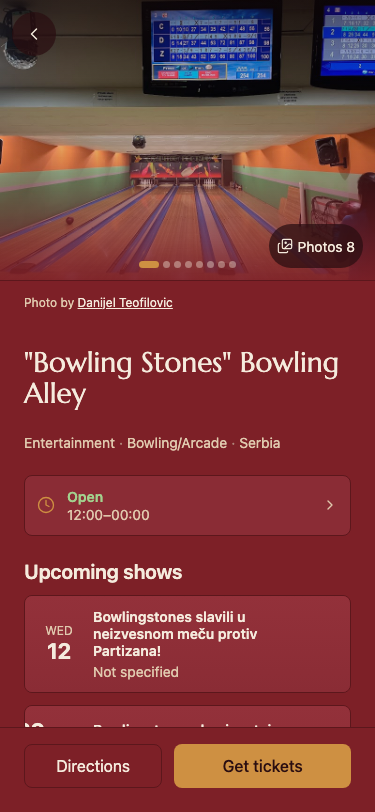
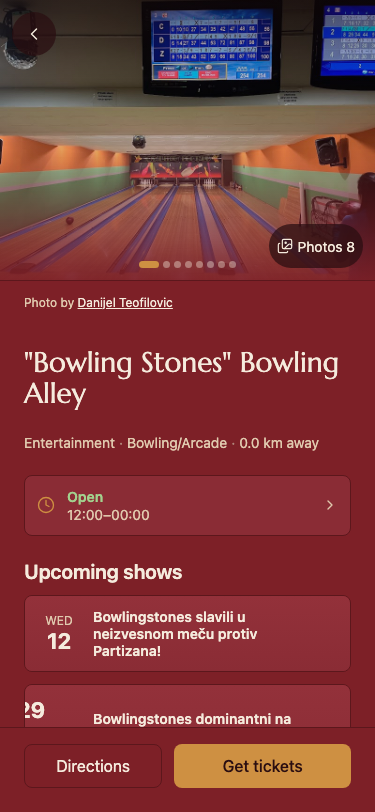
fix(app): T5 review round 2 — meta-line fold priority, dead branch, upcoming-show hedge
- MetaLine: when Entertainment's neighborhood AND the stat-grid's
  single-survivor fold both need a slot alongside category+subtype+
  distance/country, the fold now wins (distance/country yields) instead
  of the fold silently vanishing — the fold is the value's only home
  once FactStrip nulls out below 2 chips.
- Deleted the footer GoogleAttributionPlate branch: provably unreachable
  (its own gate always calls it with no googleMapsUri, which renders null).
- dateBlockRow's time_or_price now runs through classifyField so a leaked
  "Not specified" hedge on a legacy show row omits instead of rendering.
- Corrected two false claims in engineering-notes.md's round-1 entry and
  named the Kids PROMOTE_ABOVE_STAT_GRID gap for real in the code comment.

diff --git a/app/src/features/activity-list/ActivityDetailScreen.tsx b/app/src/features/activity-list/ActivityDetailScreen.tsx
@@ -252,6 +252,19 @@ export function ActivityDetailScreen({
   // (e.g. "Fast" for Wifi in the culture/shopping screens); revisit with a
   // `label` fold for a field where the bare value reads as context-free.
   const foldedFactChip = classifiedFactChips.length === 1 ? classifiedFactChips[0] : undefined;
+  // T5 round-3 fix: category + subtype (2, always-lead) + `metaText`
+  // (distance/country, 1) + Entertainment's `metaExtras` (neighborhood, 0-1)
+  // + a fold (0-1) can total 5 candidates for MetaLine's hard 4-item cap.
+  // Round 2 fixed the no-fold case (neighborhood always wins its slot) but
+  // left the fold-plus-neighborhood collision truncating the fold silently
+  // — the fold's whole purpose is to keep a lone surviving stat visible
+  // (FactStrip nulls out below 2 chips, so the meta line is that value's
+  // only home), so it and neighborhood both need their slot when both
+  // exist; `metaText` is the one that yields. This never fires outside
+  // Entertainment (`metaExtras` is `[]` for every other category) and never
+  // fires when at most one of {neighborhood, fold} is present (metaText
+  // still gets its slot then, same as today).
+  const metaLineOverflow = metaExtras.length + (foldedFactChip ? 1 : 0) >= 2;
   const unique = uniqueSection(activity);
   const goodToKnow = goodToKnowSection(activity);
   const isDirectionsPrimary = primaryCTAIsDirections(activity.category);
@@ -296,12 +309,14 @@ export function ActivityDetailScreen({
   const showMetaRow = !tripadvisor || Boolean(status && !todayRow);
   // T5 round-2 fix: whether the Places-live reviews card below renders at
   // all this pass (vs. its loading skeleton) — same condition as the JSX
-  // branch just below. Reused to gate the footer `GoogleAttributionPlate`
-  // so its "View on Google Maps" link doesn't duplicate the one the
-  // reviews card's own `detail`-variant attribution plate already renders
-  // whenever `google_maps_uri` is present (both plates read the same
-  // field). The footer plate still covers the loading-skeleton gap, where
-  // the card shows no maps link yet.
+  // branch just below. T5 round-2 also gated a footer `GoogleAttributionPlate`
+  // on this (to avoid a duplicate "View on Google Maps" link once the
+  // reviews card's own `detail`-variant plate renders it); round-3 review
+  // found that gated branch was provably unreachable (its two preconditions
+  // — pending and no `google_maps_uri` — mean the footer plate is always
+  // called with no uri, which renders null on its own) and deleted it
+  // rather than keep dead code around. This flag's sole remaining consumer
+  // is the reviews-card skeleton branch below.
   const googleReviewsCardShown =
     isPlacesLive && !(detailsPending && (activity.google_reviews ?? []).length === 0 && !activity.google_maps_uri);
 
@@ -510,8 +525,16 @@ export function ActivityDetailScreen({
               // ahead of distance/country — all app-computed/taxonomy data,
               // never run through `classifyField` (see MetaLine's
               // `rawItems`). Absent entirely for a Tripadvisor row (its
-              // eyebrow above the title already carries category).
-              rawItems={!tripadvisor ? [...metaLineLeadItems(activity), metaText] : undefined}
+              // eyebrow above the title already carries category). T5
+              // round-3 fix: `metaText` drops out of the lead items (rather
+              // than the fold or neighborhood silently losing theirs — see
+              // `metaLineOverflow`) on the one Entertainment collision where
+              // all 5 candidates compete for 4 slots.
+              rawItems={
+                !tripadvisor
+                  ? [...metaLineLeadItems(activity), metaLineOverflow ? undefined : metaText]
+                  : undefined
+              }
               items={[...metaExtras, foldedFactChip?.value]}
               chip={status && !todayRow ? { kind: 'status', text: status.text, isOpen: status.isOpen } : undefined}
             />
@@ -672,17 +695,6 @@ export function ActivityDetailScreen({
             </View>
           )}
 
-          {/* T6: the Places-case analogue of the footer CTA above
-              (design-spec.md: "a single link that either exists after the
-              merge or doesn't"); renders null on its own with no maps link.
-              T5 round-2 fix: shown only while the reviews card above is
-              still skeletoned — once it renders, its own `detail`-variant
-              attribution plate already carries this exact maps link (both
-              plates read the same `google_maps_uri`), so showing this
-              footer copy too duplicated it. */}
-          {isPlacesLive && !googleReviewsCardShown && (
-            <GoogleAttributionPlate variant="footer" googleMapsUri={activity.google_maps_uri} />
-          )}
         </View>
       </ScrollView>
 

diff --git a/app/src/features/activity-list/activityDetailConfig.test.ts b/app/src/features/activity-list/activityDetailConfig.test.ts
@@ -13,6 +13,7 @@ import {
   tripadvisorAttribution,
   tripadvisorEyebrow,
   tripadvisorReviews,
+  uniqueSection,
   weekView,
 } from './activityDetailConfig';
 
@@ -743,5 +744,44 @@ describe('priceContextLine', () => {
   it('is undefined for a category with no price_from field at all (e.g. nightlife)', () => {
     const activity = baseActivity({ category: 'nightlife' });
     expect(priceContextLine(activity)).toBeUndefined();
+  });
+});
+
+// T5 round-3 fix: `time_or_price` is LLM-generated (same denylist/prompt
+// surface as every other free-text field), so a leaked hedge on a legacy
+// row must omit per the spec's "List rows" trailing-omit rule, not render
+// verbatim.
+describe('uniqueSection — entertainment upcoming shows (dateblock)', () => {
+  it('carries a valid time_or_price through as the row subline', () => {
+    const activity = baseActivity({
+      category: 'entertainment',
+      upcoming_shows: [{ date: '2024-06-01', title: 'Live jazz night', time_or_price: '€15' }],
+    });
+    const section = uniqueSection(activity);
+    expect(section?.shape).toBe('schedule');
+    if (section?.shape !== 'schedule') throw new Error('expected schedule shape');
+    expect(section.rows[0]).toMatchObject({ title: 'Live jazz night', subline: '€15' });
+  });
+
+  it('omits the subline when time_or_price fails its scalar shape (the production-bug hedge)', () => {
+    const activity = baseActivity({
+      category: 'entertainment',
+      upcoming_shows: [
+        { date: '2024-06-01', title: 'Live jazz night', time_or_price: 'Not specified' },
+      ],
+    });
+    const section = uniqueSection(activity);
+    if (section?.shape !== 'schedule') throw new Error('expected schedule shape');
+    expect(section.rows[0]).toMatchObject({ title: 'Live jazz night', subline: '' });
+  });
+
+  it('omits the subline when time_or_price is absent', () => {
+    const activity = baseActivity({
+      category: 'entertainment',
+      upcoming_shows: [{ date: '2024-06-01', title: 'Live jazz night' }],
+    });
+    const section = uniqueSection(activity);
+    if (section?.shape !== 'schedule') throw new Error('expected schedule shape');
+    expect(section.rows[0]).toMatchObject({ title: 'Live jazz night', subline: '' });
   });
 });

diff --git a/app/src/features/activity-list/activityDetailConfig.ts b/app/src/features/activity-list/activityDetailConfig.ts
@@ -178,6 +178,13 @@ const CANONICAL_BODY_ORDER: BodySection[] = ['factstrip', 'description', 'unique
 // arrive and now does), and Shopping's old array had 'unique' before
 // 'factstrip' (now 'factstrip' comes first, per the fixed canonical order).
 // See engineering-notes.md's T5 entry for the full disclosure.
+//
+// Kids has no entry here even though the spec's canonical composition names
+// "Promote: description" for it — a deliberate no-op today, not a miss:
+// `factStripFields` returns `[]` unconditionally for kids, so description
+// already leads the canonical order with nothing above it to promote past.
+// T8 (Kids) should add `kids: 'description'` once that stat-grid gap closes,
+// rather than reading this table's silence as "already correct."
 // Not exported — `bodySectionOrder` below is the only thing any other
 // module needs; T6-T10 edit this table in place.
 type PromotableSection = 'description' | 'difficulty' | 'unique';
@@ -736,7 +743,12 @@ function dateBlockRow(show: {
       // ponytail: Intl unavailable — falls back to the raw date string above.
     }
   }
-  return { day, date, title: show.title, subline: show.time_or_price ?? '' };
+  // T5 round-3 fix: `time_or_price` is LLM-generated (same field the
+  // production-bug report's "Not specified" hedges leaked from on legacy
+  // rows — T1 only guards new writes) — run it through `classifyField` like
+  // any other generated trailing value so a leaked hedge omits per the
+  // spec's "List rows" trailing-omit rule instead of rendering verbatim.
+  return { day, date, title: show.title, subline: classifyField('scalar', show.time_or_price) ?? '' };
 }
 
 // Whole-section omission lives here too: every branch returns `undefined`

diff --git a/app/src/features/activity-list/ActivityDetailScreen.test.tsx b/app/src/features/activity-list/ActivityDetailScreen.test.tsx
@@ -683,6 +683,38 @@ describe('ActivityDetailScreen', () => {
       expect(screen.getByText('Dorćol')).toBeTruthy();
     });
 
+    // T5 round-3 fix: probe-verified regression — category + subtype (2) +
+    // distance/country (1) already fill 3 of MetaLine's 4 slots; when the
+    // row also carries a neighborhood (metaExtras) *and* a single surviving
+    // stat (the fold), that's 5 candidates for 4 slots and round 2's fix
+    // only closed the no-fold case. The fold is the value's only home
+    // (FactStrip nulls out below 2 chips) so it must survive alongside
+    // neighborhood — distance/country is what yields.
+    it('keeps both the neighborhood and a folded lone stat when they collide with category+subtype+distance', () => {
+      const entertainment: Activity = {
+        ...activity,
+        category: 'entertainment',
+        subcategory: 'cinema',
+        details: {
+          category: 'entertainment',
+          neighborhood: 'Dorćol',
+          price_from: 'EUR8',
+        },
+      };
+      render(
+        <ActivityDetailScreen
+          activity={entertainment}
+          showDistance
+          onBack={jest.fn()}
+        />,
+      );
+      expect(screen.getByText('Entertainment')).toBeTruthy();
+      expect(screen.getByText('Cinema')).toBeTruthy();
+      expect(screen.getByText('Dorćol')).toBeTruthy();
+      expect(screen.getByText('EUR8')).toBeTruthy();
+      expect(screen.queryByText(`${entertainment.distance_km.toFixed(1)} km away`)).toBeNull();
+    });
+
     it("shows Art's artist/work/year/medium attribution line above the badge, not inside the exhibition banner", () => {
       const art: Activity = {
         ...activity,
